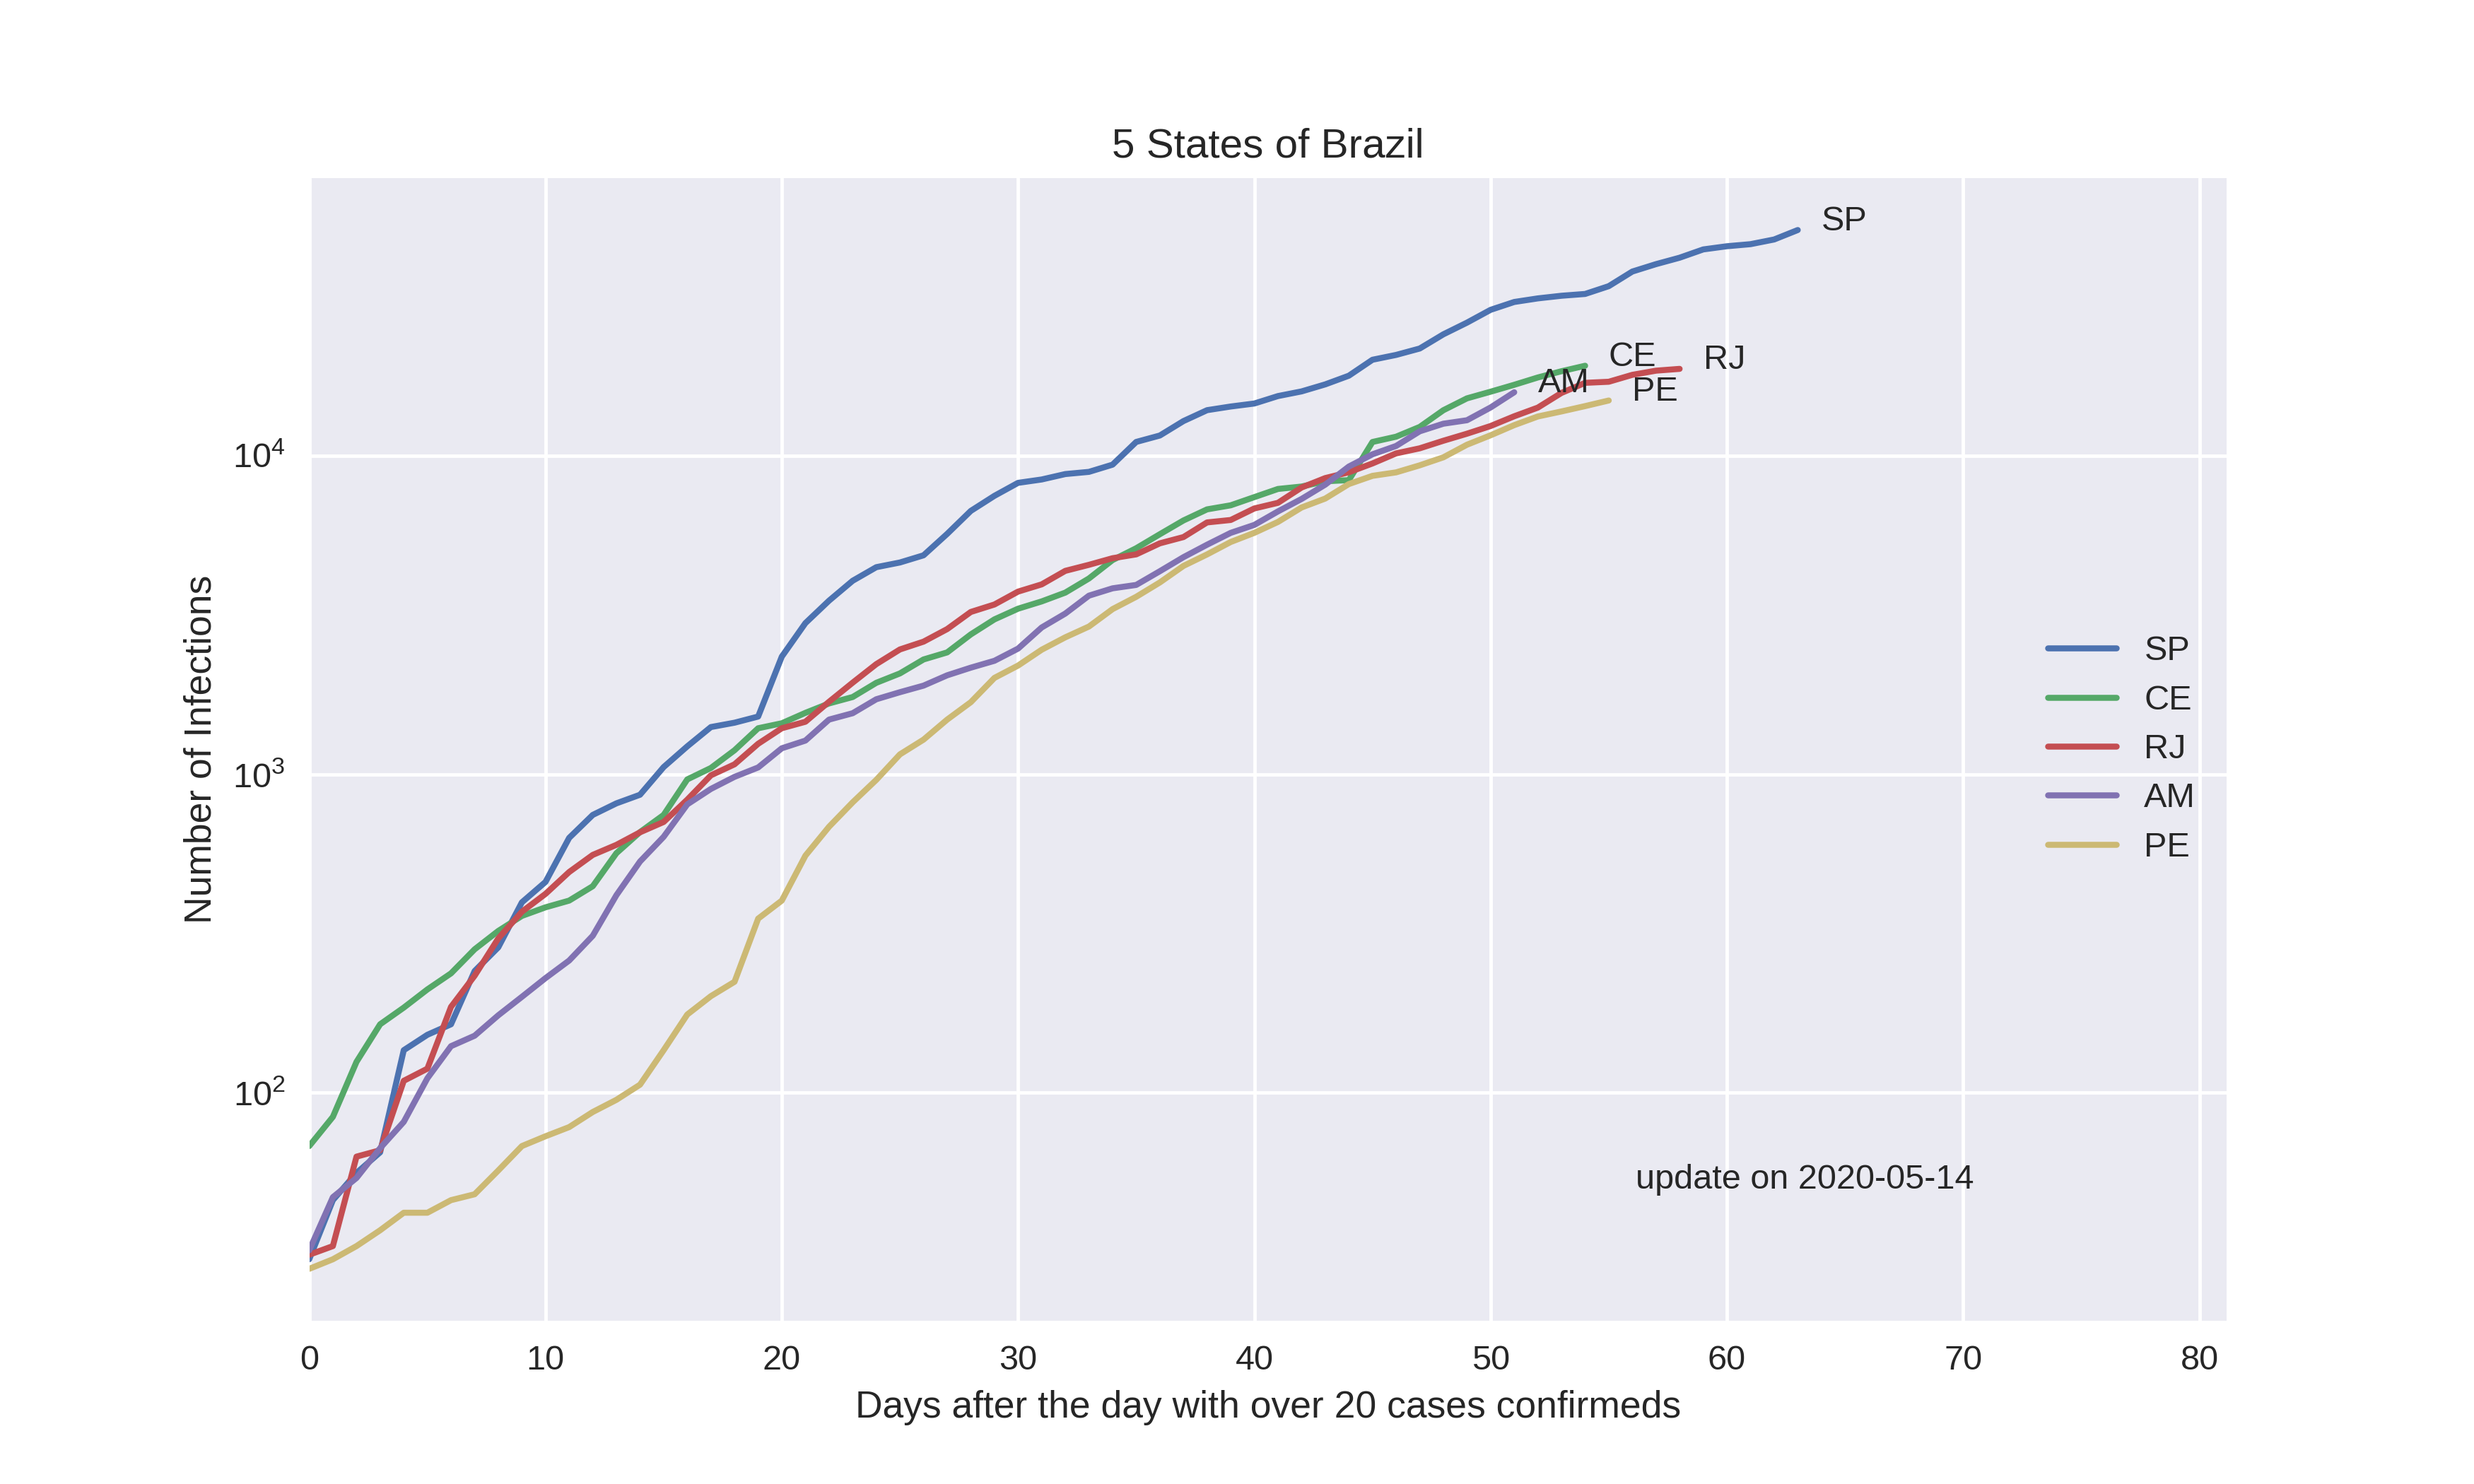
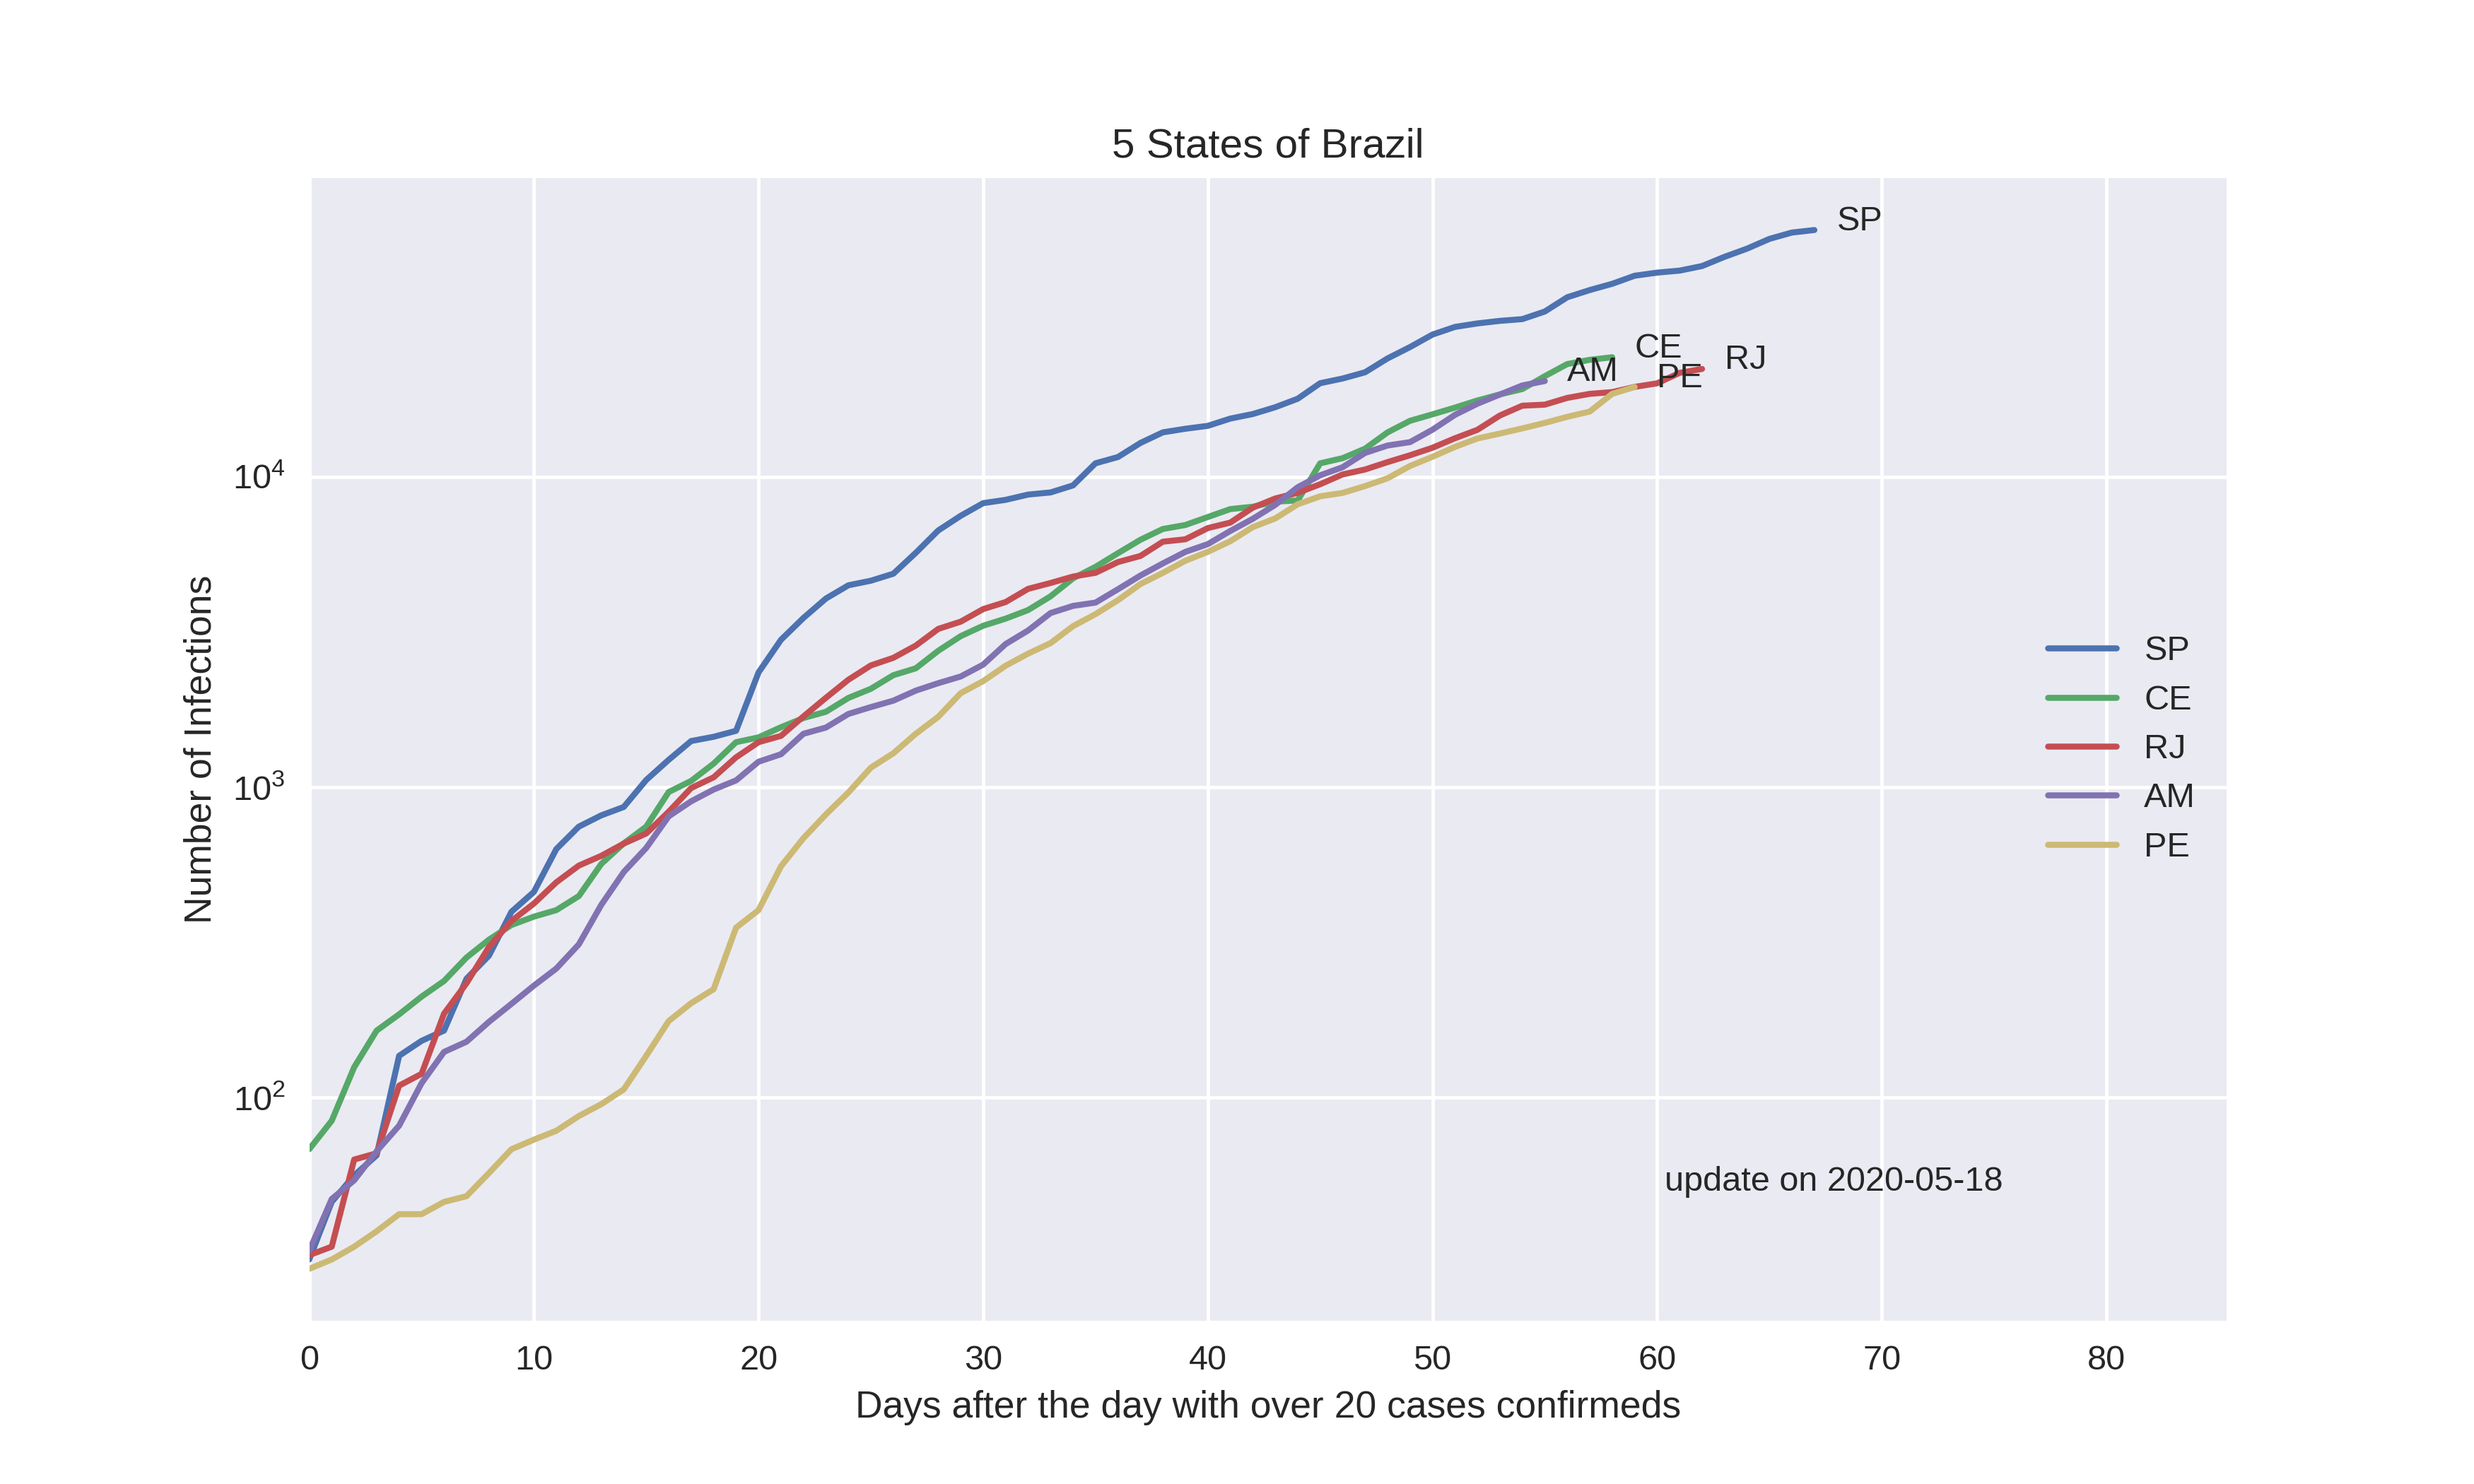
update image automake Brazil world

diff --git a/README.md b/README.md
@@ -80,11 +80,11 @@ git clone https://github.com/cmpaulo/corona.git
 Forecast of the number of infected for Brazil. <br/>
 <img src="log_data_forecast_brazil.png" alt="Forecast"> <br/>
 
-Fatality rate and infection rate by states in Brazil.<br/>
+Fatality rate and infection rate by States in Brazil.<br/>
 
 <img src="Fatality_rate.png" alt="Fatality_rate"> <br/>
 
-Five states with the bigger number of infections: <br/>
+Five States of Brazil with the bigger number of infections: <br/>
 <img src="n20cases_TOP5.png" alt="TOP5"> <br/>
 
 South America countries: <br/>
